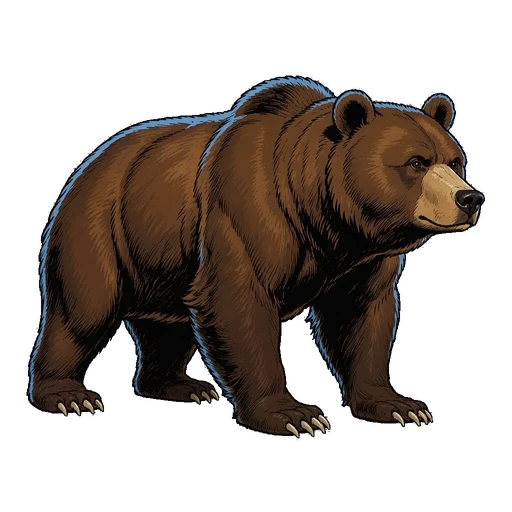
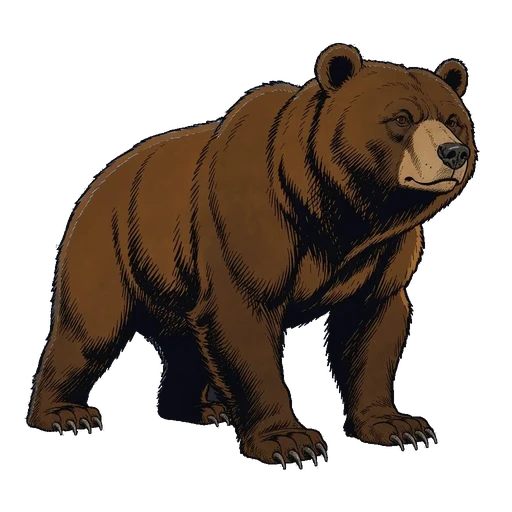
Ship the final bear: four portraits, retouched, with the legendary charge
Eye highlights painted out, the young's ground shadow erased and the adult's blue
rim tinted back to brown by scripts/retouch-animal.py; bear-legendary joins the
portrait table.

Changed region(s): [[0.0312, 0.0625, 0.9688, 0.9375]]

diff --git a/constants/animalPortraits.ts b/constants/animalPortraits.ts
@@ -11,4 +11,5 @@ export const ANIMAL_PORTRAITS: Readonly<Record<string, ImageSource>> = {
   "bear-young": require("@/assets/images/animals/bear-young.webp"),
   "bear-adult": require("@/assets/images/animals/bear-adult.webp"),
   "bear-venerable": require("@/assets/images/animals/bear-venerable.webp"),
+  "bear-legendary": require("@/assets/images/animals/bear-legendary.webp"),
 };

diff --git a/scripts/retouch-animal.py b/scripts/retouch-animal.py
@@ -1,0 +1,194 @@
+#!/usr/bin/env python3
+"""Retouch an accepted animal portrait (the 1024 px .jpg), before to-webp.py, with PIL alone.
+
+    python3 scripts/retouch-animal.py assets/images/animals/bear-young.jpg \\
+        --eye 731,332,3 --eye 714,338,6 --shadow 44,780,760,875 \\
+        --note "four eye highlights painted out, the ground shadow erased"
+    python3 scripts/retouch-animal.py assets/images/animals/bear-adult.jpg \\
+        --eye 802,236,3 --fringe 56,88,937,846 --note "..."
+
+FLUX paints a white catchlight in every eye whatever the prompt says, a cast shadow under a free
+standing animal (the cutout leaves it as a dark smear on the village's cards) and, on a few
+draws, a cold blue rim of light that survives the cutout as a blue outline. Each flag fixes one:
+
+  --eye X,Y,R       Disc of radius R at (X,Y), in px of the 1024 original: every pixel brighter
+                    than the median of the ring around it takes that median.
+  --shadow X0,Y0,X1,Y1
+                    In the box, pixels darker than the background, and neutral or blue (fur is
+                    never), take the background colour. A 3 px band around anything that is not
+                    background is spared, so the ink outline of a paw stays.
+  --fringe X0,Y0,X1,Y1
+                    In the box, pixels within --reach px (16 by default) of the subject's contour that read blue
+                    (b - r > 15, luminance > 70) are desaturated, then tinted to the median of
+                    the warm pixels next to them, keeping their own lightness, up to 1.2 times the fur. The distance is
+                    square (Chebyshev), which is close enough for a rim.
+  --note TEXT       Writes `edited` in provenance.json (dated today's chantier day, 2026-10-11),
+                    the way the other retouched entries read.
+
+The file is rewritten in place at JPEG q95: the candidate it came from is still in
+~/.cache/bati-art-loop/animals/, and `accept` can bring it back. Run it before to-webp.py, never
+after: the webp is lossy and the ledger entry follows the file.
+"""
+
+import argparse
+import json
+import pathlib
+import statistics
+import sys
+
+from PIL import Image, ImageChops, ImageDraw, ImageFilter
+
+ROOT = pathlib.Path(__file__).resolve().parent.parent
+PROVENANCE = ROOT / "scripts" / "provenance.json"
+DAY = "2026-10-11"
+
+
+def lum(p) -> float:
+    return 0.299 * p[0] + 0.587 * p[1] + 0.114 * p[2]
+
+
+def median_rgb(pixels) -> tuple[int, int, int]:
+    return tuple(int(statistics.median(p[c] for p in pixels)) for c in range(3))  # type: ignore[return-value]
+
+
+def background(im: Image.Image) -> tuple[int, int, int]:
+    """The flat navy, read off the four corners."""
+    w, h = im.size
+    px = im.load()
+    pts = [px[x, y] for x0, y0 in ((0, 0), (w - 24, 0), (0, h - 24), (w - 24, h - 24))
+           for x in range(x0, x0 + 24) for y in range(y0, y0 + 24)]
+    return median_rgb(pts)
+
+
+def disc(cx: int, cy: int, r: int):
+    for y in range(cy - r, cy + r + 1):
+        for x in range(cx - r, cx + r + 1):
+            if (x - cx) ** 2 + (y - cy) ** 2 <= r * r:
+                yield x, y
+
+
+def eye(im: Image.Image, src: Image.Image, cx: int, cy: int, r: int) -> int:
+    """Pixels brighter than the ring's median take the median. The ring is read off `src`, the
+    image as it was, so two discs that touch do not feed each other."""
+    s, out = src.load(), im.load()
+    ring = [s[x, y] for x, y in disc(cx, cy, r + 4) if (x - cx) ** 2 + (y - cy) ** 2 > (r + 1) ** 2]
+    med = median_rgb(ring)
+    ml = lum(med)
+    n = 0
+    for x, y in disc(cx, cy, r):
+        if lum(s[x, y]) > ml:
+            out[x, y] = med
+            n += 1
+    return n
+
+
+def subject_mask(im: Image.Image) -> Image.Image:
+    """255 where the subject is: everything the flood from the four corners (threshold 30, as in
+    cutout.py) does not reach."""
+    flooded = im.copy()
+    w, h = im.size
+    for corner in ((0, 0), (w - 1, 0), (0, h - 1), (w - 1, h - 1)):
+        ImageDraw.floodfill(flooded, corner, (255, 0, 255), thresh=30)
+    outside = ImageChops.difference(flooded, im).convert("L").point(lambda v: 255 if v else 0)
+    # A subject pixel that happens to be changed by the flood is impossible (the flood only
+    # repaints what it reaches), so "changed" is exactly "outside".
+    return outside.point(lambda v: 0 if v else 255)
+
+
+def shadow(im: Image.Image, box: tuple[int, int, int, int]) -> int:
+    bg = background(im)
+    bl = lum(bg)
+    px = im.load()
+    x0, y0, x1, y1 = box
+    # What is clearly the animal: warm, or clearly lighter than the night. Its 3 px halo is spared.
+    warm = Image.new("L", im.size, 0)
+    wp = warm.load()
+    for y in range(y0, y1 + 1):
+        for x in range(x0, x1 + 1):
+            p = px[x, y]
+            if p[0] - p[2] >= 10 or lum(p) > bl + 30:
+                wp[x, y] = 255
+    spared = warm.filter(ImageFilter.MaxFilter(7))
+    sp = spared.load()
+    n = 0
+    for y in range(y0, y1 + 1):
+        for x in range(x0, x1 + 1):
+            p = px[x, y]
+            if sp[x, y] == 0 and lum(p) < bl - 2 and p[0] - p[2] < 10:
+                px[x, y] = bg
+                n += 1
+    return n
+
+
+def fringe(im: Image.Image, box: tuple[int, int, int, int], reach: int = 16) -> int:
+    inside = subject_mask(im)
+    core = inside.filter(ImageFilter.MinFilter(2 * reach + 1))  # `reach` px in from the contour
+    band = ImageChops.subtract(inside, core).load()
+    px = im.load()
+    x0, y0, x1, y1 = box
+
+    def blue(p) -> bool:
+        return p[2] - p[0] > 15 and lum(p) > 70
+
+    def warm(p) -> bool:
+        return not blue(p) and p[0] >= p[2] and lum(p) > 35
+
+    fixed = []
+    for y in range(y0, y1 + 1):
+        for x in range(x0, x1 + 1):
+            if band[x, y] and blue(px[x, y]):
+                fixed.append((x, y))
+    todo = {}
+    for x, y in fixed:
+        near = [px[i, j] for j in range(y - 12, y + 13) for i in range(x - 12, x + 13)
+                if 0 <= i < im.width and 0 <= j < im.height and warm(px[i, j])]
+        if not near:
+            continue
+        med = median_rgb(near)
+        k = min(1.2, max(0.5, lum(px[x, y]) / max(lum(med), 1)))
+        todo[x, y] = tuple(min(255, int(c * k)) for c in med)
+    for (x, y), c in todo.items():  # applied after, so a fixed pixel is never a neighbour
+        px[x, y] = c
+    return len(todo)
+
+
+def note_it(path: pathlib.Path, note: str) -> None:
+    key = str(path.resolve().relative_to(ROOT))
+    ledger = json.loads(PROVENANCE.read_text(encoding="utf-8"))
+    if key not in ledger:
+        sys.exit(f"no provenance entry for {key}: accept it first")
+    ledger[key]["edited"] = f"{DAY}: {note}; the signed original is unchanged"
+    PROVENANCE.write_text(json.dumps(dict(sorted(ledger.items())), indent=2, ensure_ascii=False) + "\n", encoding="utf-8")
+
+
+def ints(raw: str, n: int) -> tuple[int, ...]:
+    parts = tuple(int(v) for v in raw.split(","))
+    if len(parts) != n:
+        raise argparse.ArgumentTypeError(f"{raw!r}: expected {n} comma-separated integers")
+    return parts
+
+
+def main() -> None:
+    ap = argparse.ArgumentParser(description=__doc__, formatter_class=argparse.RawDescriptionHelpFormatter)
+    ap.add_argument("image", type=pathlib.Path)
+    ap.add_argument("--eye", action="append", default=[], type=lambda s: ints(s, 3))
+    ap.add_argument("--shadow", type=lambda s: ints(s, 4))
+    ap.add_argument("--fringe", type=lambda s: ints(s, 4))
+    ap.add_argument("--reach", type=int, default=16, help="--fringe: how far from the contour, in px")
+    ap.add_argument("--note")
+    args = ap.parse_args()
+    src = Image.open(args.image).convert("RGB")
+    im = src.copy()
+    for cx, cy, r in args.eye:
+        print(f"eye ({cx},{cy}) r={r}: {eye(im, src, cx, cy, r)} px")
+    if args.shadow:
+        print(f"shadow: {shadow(im, args.shadow)} px")
+    if args.fringe:
+        print(f"fringe: {fringe(im, args.fringe, args.reach)} px")
+    im.save(args.image, quality=95, subsampling=0)
+    if args.note:
+        note_it(args.image, args.note)
+
+
+if __name__ == "__main__":
+    main()
